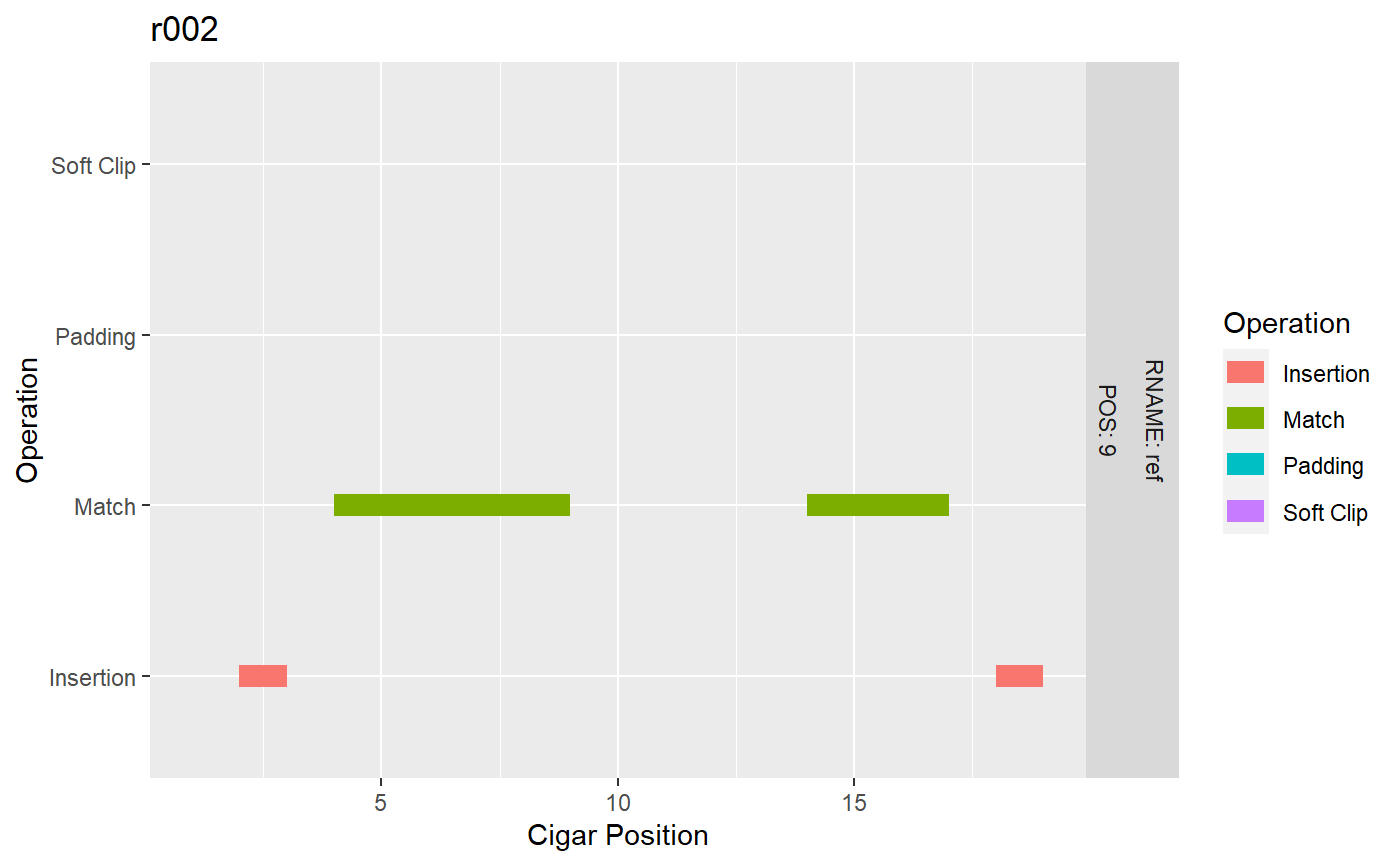
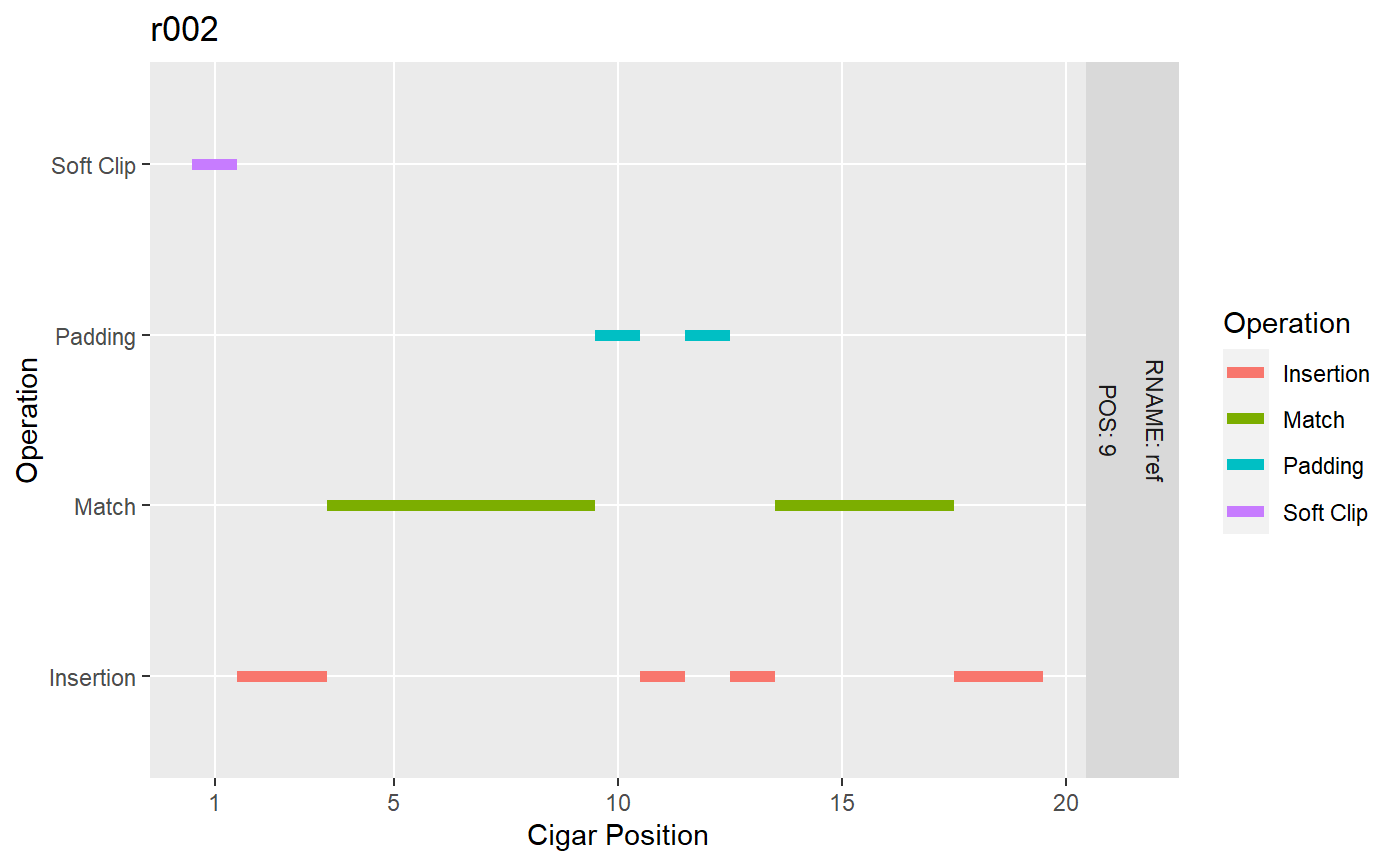
Clean up axis labels, modify cigar breakpoints by .5 to show 1-length pieces

diff --git a/docs/articles/cigar.html b/docs/articles/cigar.html
@@ -142,16 +142,16 @@
 <span class="co">#&gt; # Groups:   QNAME, RNAME, POS [13]</span>
 <span class="co">#&gt;    QNAME RNAME  MAPQ   POS POSstart POSend CIGARstart CIGARend Operation</span>
 <span class="co">#&gt;    &lt;chr&gt; &lt;chr&gt; &lt;dbl&gt; &lt;dbl&gt;    &lt;dbl&gt;  &lt;dbl&gt;      &lt;dbl&gt;    &lt;dbl&gt; &lt;chr&gt;    </span>
-<span class="co">#&gt;  1 r001  ref      30     7        7     14          1        8 Match    </span>
-<span class="co">#&gt;  2 r001  ref      30     7       15     18          9       12 Insertion</span>
-<span class="co">#&gt;  3 r001  ref      30     7       19     22         13       16 Match    </span>
-<span class="co">#&gt;  4 r001  ref      30     7       23     23         17       17 Deletion </span>
-<span class="co">#&gt;  5 r001  ref      30     7       24     26         18       20 Match    </span>
-<span class="co">#&gt;  6 r001  ref      30    37       37     41          1        5 Soft Clip</span>
-<span class="co">#&gt;  7 r001  ref      30    37       42     50          6       14 Match    </span>
-<span class="co">#&gt;  8 r001  ref      30    37       51     56         15       20 Soft Clip</span>
-<span class="co">#&gt;  9 r002  ref      30     9        9      9          1        1 Soft Clip</span>
-<span class="co">#&gt; 10 r002  ref      30     9       10     11          2        3 Insertion</span>
+<span class="co">#&gt;  1 r001  ref      30     7        8     15          1        8 Match    </span>
+<span class="co">#&gt;  2 r001  ref      30     7       16     19          9       12 Insertion</span>
+<span class="co">#&gt;  3 r001  ref      30     7       20     23         13       16 Match    </span>
+<span class="co">#&gt;  4 r001  ref      30     7       24     24         17       17 Deletion </span>
+<span class="co">#&gt;  5 r001  ref      30     7       25     27         18       20 Match    </span>
+<span class="co">#&gt;  6 r001  ref      30    37       38     42          1        5 Soft Clip</span>
+<span class="co">#&gt;  7 r001  ref      30    37       43     51          6       14 Match    </span>
+<span class="co">#&gt;  8 r001  ref      30    37       52     57         15       20 Soft Clip</span>
+<span class="co">#&gt;  9 r002  ref      30     9       10     10          1        1 Soft Clip</span>
+<span class="co">#&gt; 10 r002  ref      30     9       11     12          2        3 Insertion</span>
 <span class="co">#&gt; # ... with 29 more rows</span></pre></body></html></div>
 </div>
 <div id="plot-a-cigar" class="section level2">

diff --git a/docs/articles/package-related.html b/docs/articles/package-related.html
@@ -107,12 +107,12 @@
 <div class="sourceCode" id="cb2"><html><body><pre class="r">
 <span class="fu"><a href="../reference/usePackage.html">usePackage</a></span>(<span class="st">"dichromat"</span>)
 <span class="co">#&gt; Package dichromat not found, installing...</span>
-<span class="co">#&gt; Installing package into 'C:/Users/AZetner/AppData/Local/Temp/RtmpIvacdT/temp_libpath7b3833d3298f'</span>
+<span class="co">#&gt; Installing package into 'C:/Users/AZetner/AppData/Local/Temp/RtmpikqkfZ/temp_libpath64144c731bc4'</span>
 <span class="co">#&gt; (as 'lib' is unspecified)</span>
 <span class="co">#&gt; package 'dichromat' successfully unpacked and MD5 sums checked</span>
 <span class="co">#&gt; </span>
 <span class="co">#&gt; The downloaded binary packages are in</span>
-<span class="co">#&gt;  C:\Users\AZetner\AppData\Local\Temp\RtmpYdDPXa\downloaded_packages</span>
+<span class="co">#&gt;  C:\Users\AZetner\AppData\Local\Temp\RtmpAfbvRW\downloaded_packages</span>
 <span class="co">#&gt; Loading Package dichromat...</span>
 <span class="co">#&gt; Loading required package: dichromat</span></pre></body></html></div>
 <p>Combine <code><a href="../reference/usePackage.html">usePackage()</a></code> with the <code>purrr</code> package to attempt to attach and (install if unavailable) multiple packages. Walk doesn’t return an output, only the secondary effects. In this case, an attached package from each of those in the character vector.</p>
